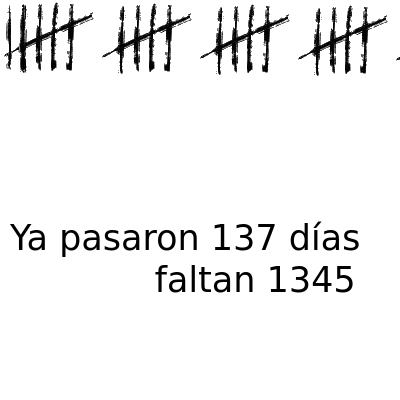
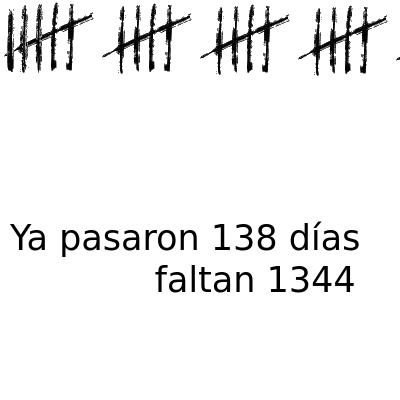
deploy: 28882f26f23b9f53dac6c4991168e610486d0e44

Changed region(s): [[0.0, 0.0, 0.12, 0.18], [0.63, 0.54, 0.69, 0.63], [0.84, 0.66, 0.9, 0.75]]

diff --git a/index.html b/index.html
@@ -3,19 +3,19 @@
   <head>
     <meta charset='utf-8'>
     <meta http-equiv='X-UA-Compatible' content='IE=edge'>
-    <title>Ya pasaron 137 días y faltan 1345</title>
-    <meta name="description" content="Ya pasaron 137 días y faltan 1345">
-    <meta itemprop="name" content="Ya pasaron 137 días y faltan 1345">
-    <meta itemprop="description" content="Ya pasaron 137 días y faltan 1345">
+    <title>Ya pasaron 138 días y faltan 1344</title>
+    <meta name="description" content="Ya pasaron 138 días y faltan 1344">
+    <meta itemprop="name" content="Ya pasaron 138 días y faltan 1344">
+    <meta itemprop="description" content="Ya pasaron 138 días y faltan 1344">
     <meta name="twitter:card" content="summary">
-    <meta name="twitter:title" content="Ya pasaron 137 días y faltan 1345">
-    <meta name="twitter:description" content="Ya pasaron 137 días y faltan 1345">
+    <meta name="twitter:title" content="Ya pasaron 138 días y faltan 1344">
+    <meta name="twitter:description" content="Ya pasaron 138 días y faltan 1344">
     <meta name="twitter:creator" content="@FloriusWasTaken">
     <meta name="twitter:image" content="https://pasaron.meme.ar/capture.png">
-    <meta property="og:title" content="Ya pasaron 137 días y faltan 1345">
-    <meta property="og:description" content="Ya pasaron 137 días y faltan 1345">
+    <meta property="og:title" content="Ya pasaron 138 días y faltan 1344">
+    <meta property="og:description" content="Ya pasaron 138 días y faltan 1344">
     <meta property="og:url" content="https://pasaron.meme.ar">
-    <meta property="og:site_name" content="Ya pasaron 137 días y faltan 1345">
+    <meta property="og:site_name" content="Ya pasaron 138 días y faltan 1344">
     <meta property="og:type" content="website">
     <meta property="og:image" content="https://pasaron.meme.ar/capture.png">
     <meta name="theme-color" content="#dc143c">
@@ -69,18 +69,18 @@
         padding: 0;
       }
     </style>
-    <title>Ya pasaron 137 días y faltan 1345</title>
+    <title>Ya pasaron 138 días y faltan 1344</title>
   </head>
   <body>
     <div id="main">
       <img src="img/5.png"/><img src="img/5.png"/><img src="img/5.png"/><img src="img/5.png"/><img src="img/5.png"/><img src="img/5.png"/><img src="img/5.png"/><img src="img/5.png"/><img src="img/5.png"/><img src="img/5.png"/><img src="img/5.png"/><img src="img/5.png"/><img src="img/5.png"/><img src="img/5.png"/><img src="img/5.png"/><img src="img/5.png"/><img src="img/5.png"/><img src="img/5.png"/><img src="img/5.png"/><img src="img/5.png"/><img src="img/5.png"/><img src="img/5.png"/><img src="img/5.png"/><img src="img/5.png"/><img src="img/5.png"/><img src="img/5.png"/><img src="img/5.png"/>
       
-        <img src="img/2.png"/>
+        <img src="img/3.png"/>
       
     </div>
     <footer id="footer">
       <marquee id="marquee" class="is-vertical-align">
-        Ya pasaron 137 días y faltan 1345
+        Ya pasaron 138 días y faltan 1344
       </marquee>
       <ul>
         <li>
